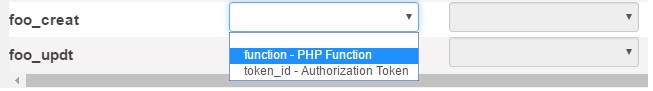
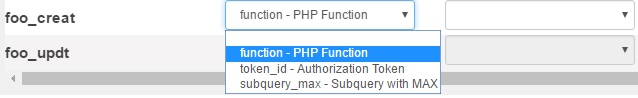
AdjustmentForMasterDetail
Adjustment for Master Detail tables, and README update

diff --git a/r1.1/frontend/MercuryFWConfig/partials/dialog/cfgDialogTbColumnsEdit.html b/r1.1/frontend/MercuryFWConfig/partials/dialog/cfgDialogTbColumnsEdit.html
@@ -58,20 +58,26 @@ limitations under the License.
         <input type="text" ng-disabled="TbColumnsVm.data.action=='view' || meta_data.noEdit || ( meta_data.depends_on && meta_data.depends_on.values.indexOf(TbColumnsVm.data.config_body[TbColumnsVm.data.detail_key][key][meta_data.depends_on.field])<0)" ng-if="meta_data.fldtype=='string'" class="form-control input-sm" ng-model="TbColumnsVm.data.config_body[TbColumnsVm.data.detail_key][key][meta_key]" id="field{{meta_key}}" placeholder="{{meta_data.placeholder}}"/>
         <input type="number" ng-disabled="TbColumnsVm.data.action=='view' || meta_data.noEdit || ( meta_data.depends_on && meta_data.depends_on.values.indexOf(TbColumnsVm.data.config_body[TbColumnsVm.data.detail_key][key][meta_data.depends_on.field])<0)" ng-if="meta_data.fldtype=='number'" string-to-number  class="form-control input-sm" ng-model="TbColumnsVm.data.config_body[TbColumnsVm.data.detail_key][key][meta_key]" id="field{{meta_key}}" placeholder="{{meta_data.placeholder}}"/>
         <input type="checkbox" ng-disabled="TbColumnsVm.data.action=='view' || meta_data.noEdit || ( meta_data.depends_on && meta_data.depends_on.values.indexOf(TbColumnsVm.data.config_body[TbColumnsVm.data.detail_key][key][meta_data.depends_on.field])<0)" ng-if="meta_data.fldtype=='boolean'" class="form-control input-sm {{(TbColumnsVm.data.zebra==1?'zebra0':'zebra1')}}" ng-model="TbColumnsVm.data.config_body[TbColumnsVm.data.detail_key][key][meta_key]" ng-true-value="true" ng-false-value="false" id="field{{meta_key}}"/>
-        <select name="field{{key}}" ng-disabled="TbColumnsVm.data.action=='view' || meta_data.noEdit || ( meta_data.depends_on && meta_data.depends_on.values.indexOf(TbColumnsVm.data.config_body[TbColumnsVm.data.detail_key][key][meta_data.depends_on.field])<0)" ng-if="meta_data.fldtype=='select'" id="field{{key}}" class="form-control input-sm" ng-model="TbColumnsVm.data.config_body[TbColumnsVm.data.detail_key][key][meta_key]">
+        <select name="field{{key}}" ng-disabled="TbColumnsVm.data.action=='view' || meta_data.noEdit || ( meta_data.depends_on && meta_data.depends_on.values.indexOf(TbColumnsVm.data.config_body[TbColumnsVm.data.detail_key][key][meta_data.depends_on.field])<0)" ng-if="meta_data.fldtype=='select' && !meta_data.multiple" id="field{{key}}" class="form-control input-sm" ng-model="TbColumnsVm.data.config_body[TbColumnsVm.data.detail_key][key][meta_key]">
           <option ng-repeat="vvalue in meta_data.valid_values.values" value="{{vvalue.key}}">{{vvalue.key+(vvalue.value!=""?" - "+vvalue.value:"")}}</option>
         </select>
         <input type="text" ng-disabled="TbColumnsVm.data.action=='view' || meta_data.noEdit" ng-if="meta_data.fldtype=='select' && TbColumnsVm.data.config_body[key]=='Other'" class="form-control input-sm" ng-model="TbColumnsVm.data.others[key]" id="field{{key}}_other" placeholder="{{meta_data.placeholder}}"/>
+        <select name="field{{key}}" ng-disabled="TbColumnsVm.data.action=='view' || meta_data.noEdit || ( meta_data.depends_on && meta_data.depends_on.values.indexOf(TbColumnsVm.data.config_body[TbColumnsVm.data.detail_key][key][meta_data.depends_on.field])<0)" ng-if="meta_data.fldtype=='select' && meta_data.multiple" id="field{{key}}" class="form-control input-sm" ng-model="TbColumnsVm.data.config_body[TbColumnsVm.data.detail_key][key][meta_key]" multiple>
+          <option ng-repeat="vvalue in meta_data.valid_values.values" value="{{vvalue.key}}">{{vvalue.key+(vvalue.value!=""?" - "+vvalue.value:"")}}</option>
+        </select>
       </div>
 
       <div class="col-md-2" ng-if="TbColumnsVm.data.group == 2" ng-repeat="(meta_key, meta_data) in TbColumnsVm.data.metadata.meta[TbColumnsVm.data.detail_key].structure.field.structure.default.structure">
         <input type="text" ng-disabled="TbColumnsVm.data.action=='view' || meta_data.noEdit || ( meta_data.depends_on && meta_data.depends_on.values.indexOf(TbColumnsVm.data.config_body[TbColumnsVm.data.detail_key][key].default[meta_data.depends_on.field])<0)" ng-if="meta_data.fldtype=='string'" class="form-control input-sm" ng-model="TbColumnsVm.data.config_body[TbColumnsVm.data.detail_key][key].default[meta_key]" id="field{{meta_key}}" placeholder="{{meta_data.placeholder}}"/>
         <input type="number" ng-disabled="TbColumnsVm.data.action=='view' || meta_data.noEdit || ( meta_data.depends_on && meta_data.depends_on.values.indexOf(TbColumnsVm.data.config_body[TbColumnsVm.data.detail_key][key].default[meta_data.depends_on.field])<0)" ng-if="meta_data.fldtype=='number'" string-to-number  class="form-control input-sm" ng-model="TbColumnsVm.data.config_body[TbColumnsVm.data.detail_key][key].default[meta_key]" id="field{{meta_key}}" placeholder="{{meta_data.placeholder}}"/>
         <input type="checkbox" ng-disabled="TbColumnsVm.data.action=='view' || meta_data.noEdit || ( meta_data.depends_on && meta_data.depends_on.values.indexOf(TbColumnsVm.data.config_body[TbColumnsVm.data.detail_key][key].default[meta_data.depends_on.field])<0)" ng-if="meta_data.fldtype=='boolean'" class="form-control input-sm {{(TbColumnsVm.data.zebra==1?'zebra0':'zebra1')}}" ng-model="TbColumnsVm.data.config_body[TbColumnsVm.data.detail_key][key].default[meta_key]" ng-true-value="true" ng-false-value="false" id="field{{meta_key}}"/>
-        <select name="field{{key}}" ng-disabled="TbColumnsVm.data.action=='view' || meta_data.noEdit || ( meta_data.depends_on && meta_data.depends_on.values.indexOf(TbColumnsVm.data.config_body[TbColumnsVm.data.detail_key][key].default[meta_data.depends_on.field])<0)" ng-if="meta_data.fldtype=='select'" id="field{{key}}" class="form-control input-sm" ng-model="TbColumnsVm.data.config_body[TbColumnsVm.data.detail_key][key].default[meta_key]">
+        <select name="field{{key}}" ng-disabled="TbColumnsVm.data.action=='view' || meta_data.noEdit || ( meta_data.depends_on && meta_data.depends_on.values.indexOf(TbColumnsVm.data.config_body[TbColumnsVm.data.detail_key][key].default[meta_data.depends_on.field])<0)" ng-if="meta_data.fldtype=='select' && !meta_data.multiple" id="field{{key}}" class="form-control input-sm" ng-model="TbColumnsVm.data.config_body[TbColumnsVm.data.detail_key][key].default[meta_key]">
           <option ng-repeat="vvalue in meta_data.valid_values.values" value="{{vvalue.key}}">{{vvalue.key+(vvalue.value!=""?" - "+vvalue.value:"")}}</option>
         </select>
         <input type="text" ng-disabled="TbColumnsVm.data.action=='view' || meta_data.noEdit" ng-if="meta_data.fldtype=='select' && TbColumnsVm.data.config_body[key].default[meta_key]=='Other'" class="form-control input-sm" ng-model="TbColumnsVm.data.others[key].default[meta_key]" id="field_default_{{key}}_other" placeholder="{{meta_data.placeholder}}"/>
+        <select name="field{{key}}" ng-disabled="TbColumnsVm.data.action=='view' || meta_data.noEdit || ( meta_data.depends_on && meta_data.depends_on.values.indexOf(TbColumnsVm.data.config_body[TbColumnsVm.data.detail_key][key].default[meta_data.depends_on.field])<0)" ng-if="meta_data.fldtype=='select' && meta_data.multiple" id="field{{key}}" class="form-control input-sm" ng-model="TbColumnsVm.data.config_body[TbColumnsVm.data.detail_key][key].default[meta_key]" multiple>
+          <option ng-repeat="vvalue in meta_data.valid_values.values" value="{{vvalue.key}}">{{vvalue.key+(vvalue.value!=""?" - "+vvalue.value:"")}}</option>
+        </select>
       </div>
 
     </div>

diff --git a/r1.1/frontend/MercuryFWConfig/js/constants.js b/r1.1/frontend/MercuryFWConfig/js/constants.js
@@ -143,7 +143,7 @@ angular.module('mercuryFWConfigApp.constants', [])
         tb_columns_field_schema: {
                                    label: "", dbtype: "", key : false , show : false , insert : false, update : false, bind_type : "", order:"", default:{}
                                  },
-        tb_columns_field_default_schema: {type:"", value:"", fill_on_insert: false, fill_on_update: false},
+        tb_columns_field_default_schema: {type:"", value:"", field:"",criteriaFields:[], fill_on_insert: false, fill_on_update: false},
         meta:{
           param_key     : {fldtype: "string", placeholder: "Fill the Model name, which will be used to configure Route"},
           db_cfg_name   : {fldtype: "select", placeholder: "DB Configuration from where this model must be readed", valid_values:{type:"service_call", service:"databases"}, protected: true},
@@ -184,8 +184,10 @@ angular.module('mercuryFWConfigApp.constants', [])
                     dialogController: "CfgTbColumnsFieldDefaultDialogEditController as FieldDefaultVm",
                     dialogClass: "ngdialog-custom-tb_columns-field-default",
                     structure:{
-                      type: {fldtype:"select", group:2, placeholder: "Indicate the type of default", noShow: false, valid_values:{type: "array", values:[{key: "", value:""},{key: "function", value:"PHP Function"},{key: "token_id", value:"Authorization Token"}]}},
+                      type: {fldtype:"select", group:2, placeholder: "Indicate the type of default", noShow: false, valid_values:{type: "array", values:[{key: "", value:""},{key: "function", value:"PHP Function"},{key: "token_id", value:"Authorization Token"},{key: "subquery_max", value:"Subquery with MAX"}]}},
                       value:{fldtype:"select", group:2, placeholder: "Indicate the complementing value", noShow: false, depends_on: {field:"type", values:["function"]}, valid_values:{type: "array", values:[{key: "", value:""},{key: "current_timestamp", value:"Gets Current Timestamp"}]}},
+                      /*field:{fldtype:"select", group:2, placeholder: "Select field for subquery MAX", noShow: false, depends_on: {field:"type", values:["subquery_max"]}, valid_values:{type: "controller_array", name:"field_names"}},
+                      criteriaFields:{fldtype:"select", multiple:true, group:2, placeholder: "Select criteria field(s) for subquery MAX", noShow: false, depends_on: {field:"type", values:["subquery_max"]}, valid_values:{type: "controller_array", name:"field_names"}},*/
                       fill_on_insert: {fldtype:"boolean", group:2, placeholder: "Must be filled on insert?", noShow: false},
                       fill_on_update: {fldtype:"boolean", group:2, placeholder: "Must be filled on update?", noShow: false}
                     }

diff --git a/r1.1/frontend/MercuryFWConfig/js/modelConfig-controllers.js b/r1.1/frontend/MercuryFWConfig/js/modelConfig-controllers.js
@@ -176,6 +176,11 @@ angular.module('mercuryFWConfigApp.controllers')
   vm.cfgDialog = function(cfg) {
 
     vm.detail_key = cfg.key;
+    vm.field_names = [];
+    $i = 0;
+    angular.forEach(vm.config_body.tb_columns, function(value, key){
+      vm.field_names[$i++] = {key: key, value: value.label};
+    });
 
     ngDialog.open({ template: 'partials/dialog/'+ vm.metadata.meta[vm.detail_key].dialogForm, //cfgDialogTbColumnsEdit.html',
                     className: 'ngdialog-theme-default',
@@ -267,6 +272,11 @@ angular.module('mercuryFWConfigApp.controllers')
   vm.cfgDialog = function(cfg) {
 
     vm.detail_key = cfg.key;
+    vm.field_names = [];
+    $i = 0;
+    angular.forEach(vm.config_body.tb_columns, function(value, key){
+      vm.field_names[$i++] = {key: key, value: value.label};
+    });
 
     ngDialog.open({ template: 'partials/dialog/'+ vm.metadata.meta[vm.detail_key].dialogForm, //cfgDialogTbColumnsEdit.html',
                     className: 'ngdialog-theme-default',
@@ -298,6 +308,12 @@ angular.module('mercuryFWConfigApp.controllers')
         vm.data.metadata.meta[vm.data.detail_key].structure.field.filteredStructure[key] = vmeta[key];
       }
     });
+    /* Disabled by now, as will support only subquery for the same table
+    if(vm.data.group==2){//Default - adjusting valid values for field and criteriaFields
+      vm.data.metadata.meta[vm.data.detail_key].structure.field.structure.default.structure.field.valid_values.values = vm.data[vm.data.metadata.meta[vm.data.detail_key].structure.field.structure.default.structure.field.valid_values.name];
+      vm.data.metadata.meta[vm.data.detail_key].structure.field.structure.default.structure.criteriaFields.valid_values.values = vm.data[vm.data.metadata.meta[vm.data.detail_key].structure.field.structure.default.structure.criteriaFields.valid_values.name];
+    }
+    */
   }
 
   vm.setZebra = function(){

diff --git a/r1.1/backend/api/model/baseModel.php b/r1.1/backend/api/model/baseModel.php
@@ -450,11 +450,14 @@ class baseModel extends helpers\ModelData{
 
           $modelObj = $this;
 
-          $modelObj->_PREPARE_SELECT()->_ADD_MAX( $modelObj->getTableColumn( $tbcolobj->getFieldDetails()->getDefault()->getSubQueryMaxField() )->getField( DBFactory::getInstance()->getDB($this->getDbCfgName())->prefixTB() ) , "LastKey" );
+
+          //$modelObj->_PREPARE_SELECT()->_ADD_MAX( $modelObj->getTableColumn( $tbcolobj->getFieldDetails()->getDefault()->getSubQueryMaxField() )->getField( DBFactory::getInstance()->getDB($this->getDbCfgName())->prefixTB() ) , "LastKey" );
+          $modelObj->_PREPARE_SELECT()->_ADD_MAX( $tbcolobj->getField( DBFactory::getInstance()->getDB($this->getDbCfgName())->prefixTB() ) , "LastKey" );
 
           $idx = 0;
           $firstCondition = true;
           $modelObj->_PREPARE_WHERE();
+          /*
           foreach($keys as $key){
             $fvalue = "";
             if(array_key_exists($key, $keys_data)){
@@ -470,6 +473,19 @@ class baseModel extends helpers\ModelData{
             }
             else{
               $modelObj->_AND($modelObj->getTableColumn($key)->getField( DBFactory::getInstance()->getDB($this->getDbCfgName())->prefixTB() ), "=", $fvalue );
+            }
+          }
+          */
+
+          foreach($keys_data as $key => $value){
+            if($key!=$fname){ //If the key field being processed is not the current field(which is supposed to be a subtable additional key...)
+              if($firstCondition){
+                $modelObj->_CONDITION($modelObj->getTableColumn($key)->getField( DBFactory::getInstance()->getDB($this->getDbCfgName())->prefixTB() ), "=", $value );
+                $firstCondition = false;
+              }
+              else{
+                $modelObj->_AND($modelObj->getTableColumn($key)->getField( DBFactory::getInstance()->getDB($this->getDbCfgName())->prefixTB() ), "=", $value );
+              }
             }
           }
 

diff --git a/README.md b/README.md
@@ -3,11 +3,11 @@
 
 Mercury is a software package consisting of a PHP application able to provide REST API for CRUD operations, which are build upon configurations, and an AngularJS Web Application, called Mercury Framework Configuration, which is a User Interface to do easily the Mercury Configuration.
 
-Mercury was built having in mind what was called the **CCR concept**, which means **C***onnect* and **C***onfigure* - your Database(s), your Model(s), Router(s), Controller(s), etc, and **R***un*, which means that, for CRUD operations, you have not to write a single piece of code - doing the configurations in Mercury, it will make available for you the REST Services you need(and if you need some very specific REST service to work joined with the standard CRUD ones, Mercury offer a way to you build them, since you respect some simple rules).
+Mercury was built having in mind what was called the **CCR concept**, which means **C***onnect* - to your database(s), **C***onfigure* - your Model(s), Router(s), Controller(s), Authentication, etc, and **R***un*, which means that, for CRUD operations, isn´t needed to write a single line of code - doing the configurations in Mercury, it will make available for you the REST Services you need(and if you need some very specific REST service to work joined with the standard CRUD ones, Mercury offer a way to you build them, since you respect some simple rules, which will be explained in a more complete documentation).
 
-To get Mercury up and running, download a ZIP file from https://github.com/kirkcap/MercuryFramework(I hope in a near future it will support Composer, I´m sorry by the inconvenience now), you will get a small file(3.6M), extract it, and inside the subfolder r1.1 you will have 3 folders, from which you will use only 2: backend - which contains the PHP backend, and frontend - which contains the Web App for configuration.
+To get Mercury up and running, download a ZIP file from ```https://github.com/kirkcap/MercuryFramework```(I hope in a near future it will support Composer, I´m sorry by the inconvenience now), you will get a small file(3.6M), extract it, and inside the subfolder ***r1.1*** you will have 3 folders, from which you will use only 2: ***backend*** - which contains the PHP backend, and ***frontend*** - which contains the AngularJS Web App for configuration.
 
-So, copy the backend folder to a location in your local server(it was developed/tested using WampServer 2.5) out of the www(the public folder), so, supposing you will use it for a project called "my-project", you can create the folder "my-project" under wamp/lamp, and copy the backend folder inside it. After that, copy the index.php file, which is in your downloaded package under r1.1 folder(same level as backend and frontend folders) to the wamp/lamp www folder, to make it public, open it in an editor and locate the following piece of code:
+So, copy the ***backend*** folder to a location in your local server(it was developed/tested using WampServer 2.5) *out* of the ***www***(the public folder), so, supposing you will use it for a project called ***my-project***, you can create the folder ***my-project*** under wamp/lamp, and copy the ***backend*** folder inside it. After that, copy the ***index.php*** file, which is in your downloaded package under ***r1.1*** folder(same level as ***backend*** and ***frontend*** folders) to the wamp/lamp ***www*** folder, to make it public, so open it in an editor and locate the following block of code:
 
 ```
 /* Adjust the path below to the place in your server where you will host the
@@ -18,7 +18,7 @@ use com\mercuryfw\api as api;
 ```
 
 
-And replace the block ***{{your-project-name}}*** with the name you given to the folder created out of www, in this sample, ***my-project***, so, this piece of code must be like this:
+And replace the block ***{{your-project-name}}*** with the name given to the folder created out of www, in this sample, ***my-project***, so, this block of code must be like this:
 
 
 ```
@@ -29,10 +29,10 @@ require_once __DIR__.'/../my-project/backend/api.php';
 use com\mercuryfw\api as api;
 ```
 
-This will prepare the index.php to instantiate Mercury main class, which will made the magic happens.
-After that, you need to create a folder under www, which can have the same name you created out of www, or another name at your choice, in this sample I will sugest "my-project-config", and back to the package you extracted from the ZIP downloaded from Github, go to folder frontend, and copy the folder MercuryFWConfig to the new folder you created under www.
+This will prepare the ***index.php*** to instantiate Mercury main class, which will make the magick happens.
+After that, you need to create a folder under ***www***, which can have the same name you created out of www, or another name at your choice, in this sample I will sugest ***my-project-config***, and back to the package you extracted from the ZIP downloaded from Github, go to folder ***frontend***, and copy the folder ***MercuryFWConfig*** to the new folder you created under ***www***.
 
-The next step is to open in a editor the constants.js file, which is in the path MercuryFWConfig\js, and locate the following piece of code:
+The next step is to open in a editor the ***constants.js*** file, which is in the path ***MercuryFWConfig\js***, and locate the following block of code:
 
 ```
     .constant('BackendConfig', {
@@ -40,7 +40,7 @@ The next step is to open in a editor the constants.js file, which is in the path
     })
 ```
 
-Here, adjust the *url* constant according to your local environment, so, supposing your wamp/lamp is listening at ***8090*** port, and you keep the index.php file with this name(you can change it, no problem with that), all you need to do is replace the block ***{{port}}*** with your local server listening port, and this piece of code must be like this:
+Here, adjust the ***url*** constant according to your local environment, so, supposing your wamp/lamp is listening at ***8090*** port, and you keep the ***index.php*** file with this name(you can change it, no problem with that, but adjust here to the correct name), all you need to do is replace the block ***{{port}}*** with your local server listening port, and this block of code must be like this:
 
 
 ```
@@ -60,21 +60,26 @@ And the Mercury Framework Configuration App will load, and you will see this ini
 
 ![Mercury Initial Screen](/r1.1/doc_images/Initial.jpg?raw=true "Mercury Initial Screen")
 
+
+
 Now the magick begins, lets take as premise to the next steps that we have a MySQL database called foo_bar, with 2 tables, foo and bar:
 
 ![The foo_bar MySQL database](/r1.1/doc_images/foo_bar_db.jpg?raw=true "The foo_bar MySQL database")
 
-Keeping this in mind, lets start the Connect & Configuration(or Configuration & Connection... doesn´t matters), so, lets directly to the ***Databases*** option, to configure our database connection:
+Keeping this in mind, lets start the Connect & Configure phase, so, let´s go directly to the ***Databases*** option, to configure our database connection:
 
 ![Database Connections Initial Screen](/r1.1/doc_images/DatabasesInitial.jpg?raw=true "Database Connections Initial Screen")
 
-Here all available database connection configurations are shown, as it´s the first time we are entering Mercury, there is some the ***default*** connection, which as we will see, is empty. Clicking in ***Edit*** to adjust the configurations, we have the following:
+Here all available database connection configurations are shown, and as it´s the first time we are entering Mercury, there is only the ***default*** connection, which as we will see, is empty. Clicking in ***Edit*** to adjust the configurations, we have the following:
 
 ![Database Connection Edit Screen](/r1.1/doc_images/DatabasesEdit.jpg?raw=true "Database Connection Edit Screen")
 
 In this screen, lets fill the parameters as follow:
 
 ![foo_bar db connection filled](/r1.1/doc_images/DatabaseDefaultFooBar.jpg?raw=true "foo_bar db connection filled")
+*(Mercury currently supports MySQL - with mysqli or PDO driver, and PostGres with PDO driver)*
+
+
 
 After saving these settings, lets configure our first model, going to ***Models*** option:
 
@@ -132,6 +137,8 @@ With this, we have all the model configuration for ***foo*** table done, click i
 
 ![All existing models](/r1.1/doc_images/ModelsList.jpg?raw=true "Models List - all existing models")
 
+
+
 After that, what is needed is to configure a Route to access our created model, so, clicking in ***Routes***:
 
 ![Routes initial screen](/r1.1/doc_images/RoutesInitial.jpg?raw=true "Routes Configuration Initial Screen")
@@ -148,7 +155,10 @@ So, clicking on ***Save***, our new Route is saved and the app returns to the Ro
 
 ![Available Routes](/r1.1/doc_images/RoutesList.jpg?raw=true "Available Routes")
 
-And now, the REST CRUD services for our ***foo*** table is avialable to use ! Yeah, simple like that ! Supposing we put the index.php on the root of public_html/www folder of our local server, and that our local server port is 8090, all that is needed to access the service for the first time is to call the URL:
+
+
+Congratulations!! Now, with Connect & Configuration done, we arrived to the last phase: RUN !
+The REST CRUD services for our ***foo*** table is avialable to use ! Yeah, simple like that ! Supposing we put the index.php on the root of public_html/www folder of our local server, and that our local server port is 8090, all that is needed to access the service for the first time is to call the URL:
 
 ```
 http://localhost:8090/index.php/foo
@@ -197,7 +207,8 @@ http://localhost:8090/index.php/foo?foo_code|ge=2&foo_code|le=4
 ```
 Where ```|ge``` after the field *foo_code* means to Mercury ```foo_code greater than or equals to...``` and ```|le``` means ```foo_code less than or equals to...```. Other possibilities are:
 
-*|lt* - *less than*
-*|gt* - *greater than*
+*|lt* - ***less than***
 
-So now, we have a complete set of REST services for CRUD operations for foo, without write a single line of code to have them, that is it. More complete documentation soon.
+*|gt* - ***greater than***
+
+So now, after these simple steps, we have a complete set of REST services for CRUD operations for foo, without write a single line of code to have them, that is it, this is the central idea regarding Mercury. Wait for more complete documentation soon.
